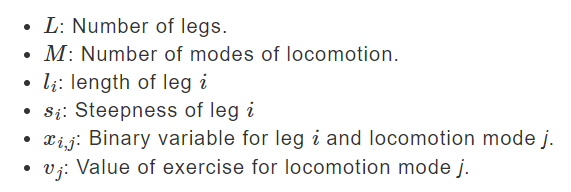
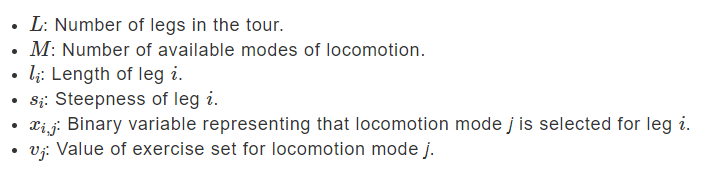
Edit of README file

diff --git a/README.md b/README.md
@@ -51,8 +51,8 @@ Access the user interface with your browser at http://127.0.0.1:8050/.
 The demo program opens an interface where you can configure tour
 problems, submit these problems to a CQM solver, and examine the results.
 
-Hover over an input field to see a description of the input and its range of
-supported values.
+*Hover over an input field to see a description of the input and its range of*
+*supported values.*
 
 ### Configuring the Tour
 
@@ -76,10 +76,10 @@ has a hard constraint to not drive on legs with toll booths.
 
 ### Configuring the Constraints
 
-The upper-middle section of the user interface lets you configure the constraints
+The upper-middle section of the user interface lets you tune the constraints
 on cost, time, and steepness.
 
-You can select whether to use hard or soft constraints. For soft constraints,
+You can select whether to use hard or soft constraints, and for soft constraints,
 you can set weights and chose between linear or quadratic penalties.
 
 ### Submitting the Problem for Solution
@@ -88,7 +88,7 @@ The upper-right section of the user interface lets you submit your problem
 to a Leap hybrid CQM solver. The default solver runtime of 5 seconds is used
 unless you choose to increase it.
 
-### Viewing Solutions and Problem Information
+### Viewing Solutions and Problem Details
 
 The lower section presents information about the problem and any found solutions.
 These are presented in the following tabs:
@@ -96,8 +96,9 @@ These are presented in the following tabs:
 * **Graph:** displays the configured problem and any found solutions in three ways:
 
   - **Space:** displays relative leg lengths, steepness as a
-    color heatmap, and toll booths as icons above the tour. Modes of locomotion
-    for the best solution found are displayed as icons below it.
+    color heatmap, and toll booths as icons above the colored bar representing
+    the tour. Modes of locomotion for the best solution found are displayed as
+    icons below it.
   - **Time:** displays relative leg duration and, for the best found solution,
     the cost per leg as a color heatmap.   
   - **Feasibility:** displays feasible and non-feasible solutions in a
@@ -123,7 +124,7 @@ https://docs.ocean.dwavesys.com/en/stable/docs_dimod/reference/sampleset.html)
 The problem of selecting a mode of locomotion for every leg of the tour to achieve
 some objective (maximize exercise) given a number of constraints (e.g., do not
 overpay) can be modeled as an optimization problem with decisions that could
-either be true (or yes) or false (no): for any leg, should one drive? Should one
+either be true or false: for any leg, should one drive? Should one
 walk?
 
 This model uses four binary variables for each leg of the tour, each one representing
@@ -137,20 +138,15 @@ number 5 might have the following binary variables and values in one solution:
 | ``bus_5``              | Bus leg 5     | False                          |
 | ``drive_5``            | Drive leg 5   | False                          |
 
-In the above case, the mode of locomotion selected for leg 5 is to cycle.
+In the solution above, cycling is the mode of locomotion selected for leg 5.
 
 The CQM is built as follows with a single objective and several constraints:
 
 * **Objective: Maximize Exercise**
 
-    To maximize exercise on the tour, the CQM sets an objective to
-    maximize the total values of exercise of all the tour legs. It does this in
-    a summation over the following multiplicands for each leg:
-
-    * length
-    * slope
-    * exercise value of each mode of locomotion
-    * binary variable representing each mode of locomotion
+    To maximize exercise on the tour, the CQM objective is to minimize the negative
+    summation of values of exercise set for each locomotion mode across all the
+    tour's legs.
 
     ![eq_exercise](assets/formula_exercise.png)
 
@@ -160,23 +156,24 @@ The CQM is built as follows with a single objective and several constraints:
 
     Because a single mode of locomotion is selected for each leg (as explained
     below), all the products but one are zeroed by the binary variables of that
-    leg. For example, in leg 5 above, the length set for leg 5 is multiplied by
-    its slope and the exercise value of cycling because only the binary variable
-    for cycling is not zero.
+    leg. For example, in leg 5 in the solution above, the leg length is
+    multiplied by its slope and the exercise value of cycling because, for this
+    leg, the binary variable representing cycling is the only non-zero variable.
 
 * **Constraint 1: Cost**
 
     To discourage or prevent the tour's cost from exceeding
-    your configured value, the CQM sets a constraint that the total cost over
-    all legs is less or equal to the desired cost. It does this in a summation
-    over leg length multiplied by the cost value of each mode of locomotion and
-    by the binary variable representing each mode of locomotion. Again, for each
-    leg the only non-zero product is for the cost of the selected locomotion and
-    the leg length. This can be a hard or soft constraint.
+    your preferred budget, the CQM sets a constraint that the total cost over
+    all legs is less or equal to your configured cost. It does this by minimizing
+    the summation of leg lengths multiplied by the cost value of locomotion mode
+    for the leg. This can be a hard or soft constraint.
 
     ![eq_cost](assets/formula_cost.png)
 
     ![eq_cost_terms](assets/formula_cost_terms.png)
+
+    Again, for each leg the only non-zero product has the binary variable
+    representing the selected locomotion mode.
 
 * **Constraint 2: Time**
 
@@ -198,18 +195,18 @@ The CQM is built as follows with a single objective and several constraints:
 
     ![eq_slope](assets/formula_slope.png)
 
-
 * **Constraint 4: Single Mode of Locomotion Per Leg**
 
     To ensure a single mode of locomotion is selected for each
     leg, the sum of the binary variables representing each leg must equal one
-    (a ["one-hot" constraint](https://docs.dwavesys.com/docs/latest/handbook_reformulating.html)). This is a hard constraint.
+    (a ["one-hot" constraint](https://docs.dwavesys.com/docs/latest/handbook_reformulating.html)).
+    This is a hard constraint.
 
     ![eq_one_hot](assets/formula_one_hot.png)
 
 * **Constraint 5: Toll Booths**
 
-    To prevent the selection of driving on legs with toll booths, the CQM sets a
+    To prevent driving on legs with toll booths, the CQM sets a
     constraint that the binary variable representing driving be zero for any leg
     with a toll booth. This is a hard constraint.
 

diff --git a/assets/formulae.rst b/assets/formulae.rst
@@ -11,12 +11,12 @@ Exercise
 
 where
 
-* :math:`L`: Number of legs.
-* :math:`M`: Number of modes of locomotion.
-* :math:`l_i`: length of leg :math:`i`
-* :math:`s_i`: Steepness of leg :math:`i`
-* :math:`x_{i,j}`: Binary variable for leg :math:`i` and locomotion mode `j`.
-* :math:`v_j`: Value of exercise for locomotion mode `j`.
+* :math:`L`: Number of legs in the tour.
+* :math:`M`: Number of available modes of locomotion.
+* :math:`l_i`: Length of leg :math:`i`.
+* :math:`s_i`: Steepness of leg :math:`i`.
+* :math:`x_{i,j}`: Binary variable representing that locomotion mode `j` is selected for leg :math:`i`.
+* :math:`v_j`: Value of exercise set for locomotion mode `j`.
 
 One-Hot Constraint
 ------------------
